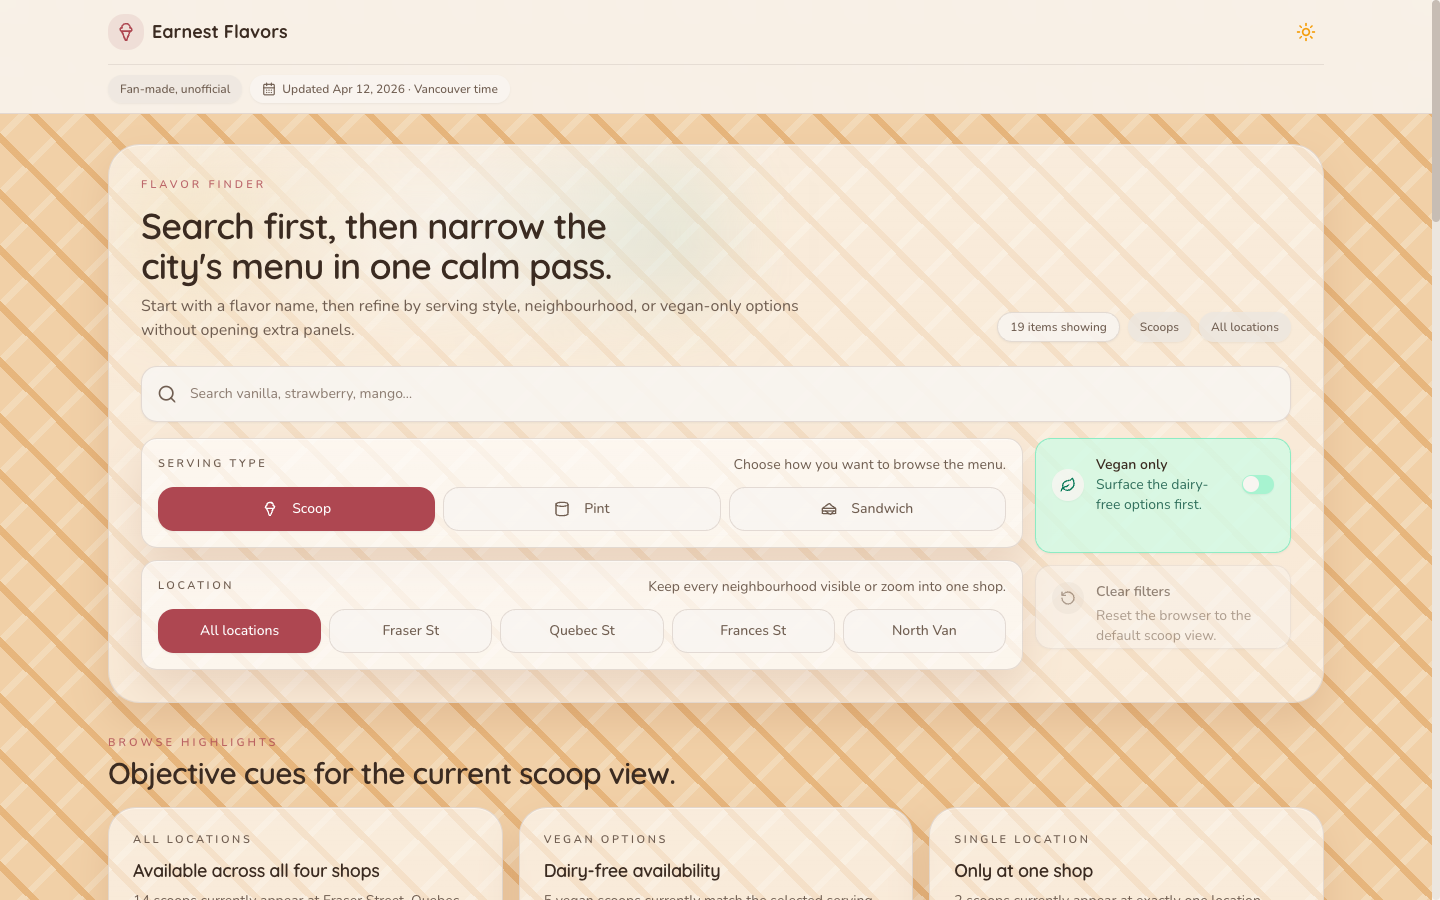
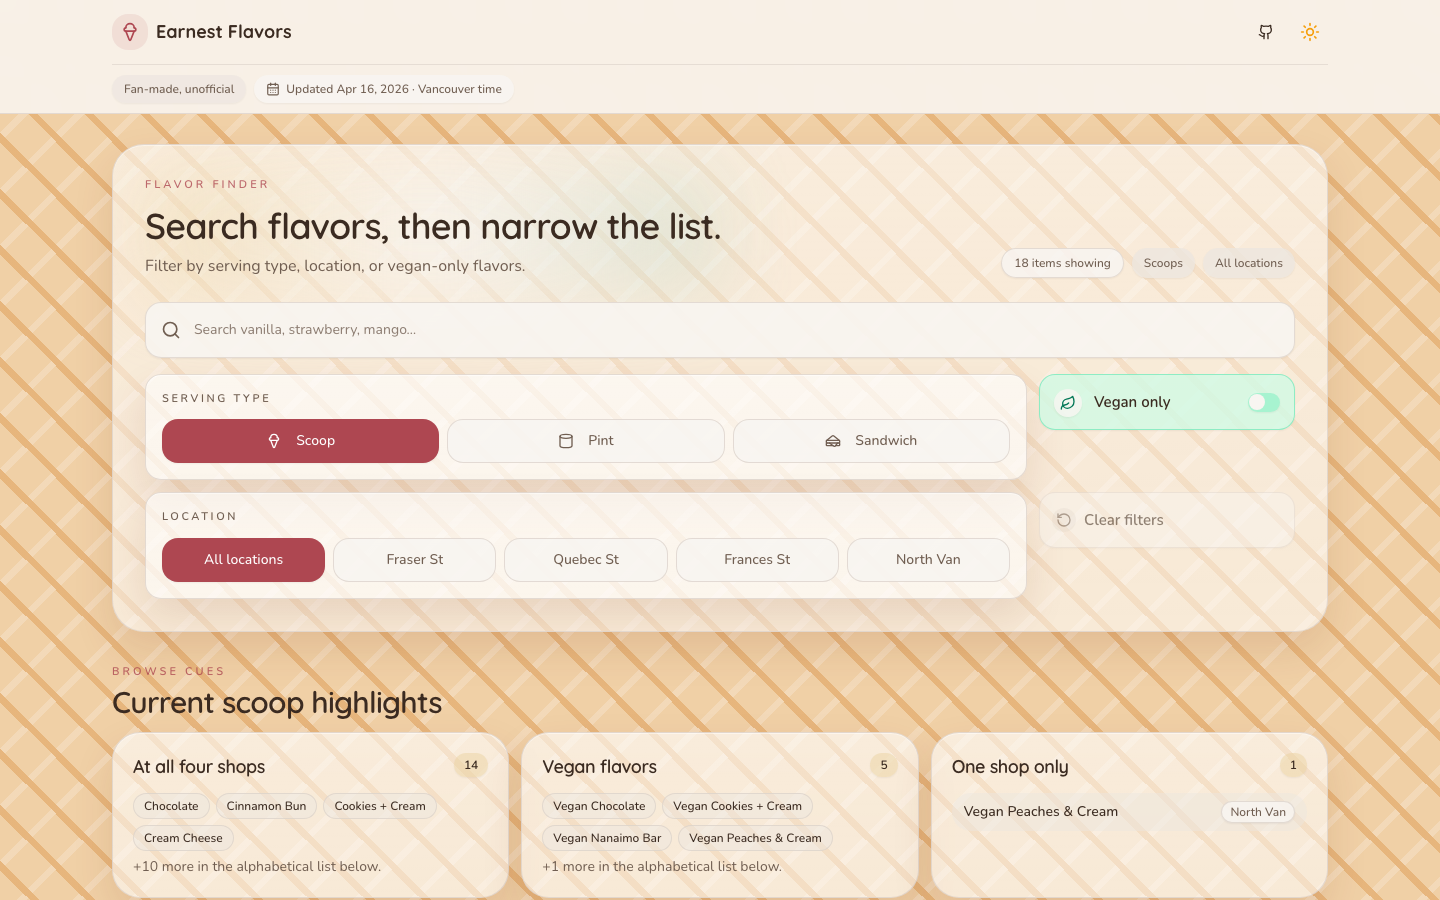
[codex] Add GitHub project link (#3)
* Add GitHub project link

* Simplify CI workflow

diff --git a/src/components/custom/Navigation.tsx b/src/components/custom/Navigation.tsx
@@ -1,9 +1,10 @@
 import { useState, useEffect } from 'react';
-import { CalendarDays, IceCream, Sun, Moon } from 'lucide-react';
+import { CalendarDays, Github, IceCream, Sun, Moon } from 'lucide-react';
 import { Button } from '@/components/ui/button';
 import { getRuntimeMetadata } from '@/data/runtime-data';
 
 const metadata = getRuntimeMetadata();
+const githubProjectUrl = 'https://github.com/kavankfc/earnest-flavours';
 
 interface NavigationProps {
   isDark: boolean;
@@ -56,6 +57,22 @@ export function Navigation({ isDark, toggleTheme }: NavigationProps) {
 
           {/* Right side actions */}
           <div className="flex items-center gap-2">
+            <Button
+              asChild
+              variant="ghost"
+              size="icon"
+              className="rounded-xl hover:bg-muted transition-all duration-300 [&_svg]:size-5"
+            >
+              <a
+                href={githubProjectUrl}
+                target="_blank"
+                rel="noopener noreferrer"
+                aria-label="View this project on GitHub"
+              >
+                <Github />
+              </a>
+            </Button>
+
             {/* Theme Toggle */}
             <Button
               variant="ghost"
